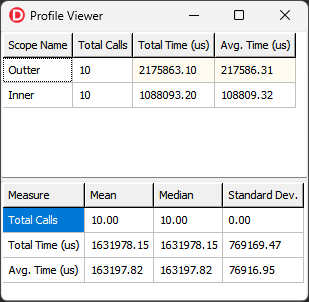
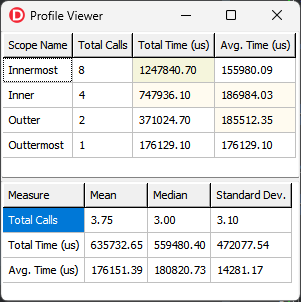
Update usage example

diff --git a/README.md b/README.md
@@ -7,27 +7,50 @@ A tracing profiler for Delphi.
 ## Example
 
 ```delphi
+program ProfilerClientTest;
+
 uses
   System.SysUtils,
   Profiler.Trace;
 
+procedure Innermost;
+begin
+  Trace('Innermost');
+  Sleep(150);
+end;
+
 procedure Inner;
 begin
   Trace('Inner');
-  Sleep(100);
+  Sleep(50);
+  Innermost;
+  Sleep(50);
+  Innermost;
+  Sleep(50);
 end;
 
 procedure Outter;
 begin
   Trace('Outter');
-  Sleep(100);
+  Sleep(50);
   Inner;
-  Sleep(100);
+  Sleep(50);
+  Inner;
+  Sleep(50);
+end;
+
+procedure Outtermost;
+begin
+  Trace('Outtermost');
+  Sleep(50);
+  Outter;
+  Sleep(50);
+  Outter;
+  Sleep(50);
 end;
 
 begin
-  for I := 1 to 10 do
-    Outter;
+  Outtermost;
 end.
 ```
 
